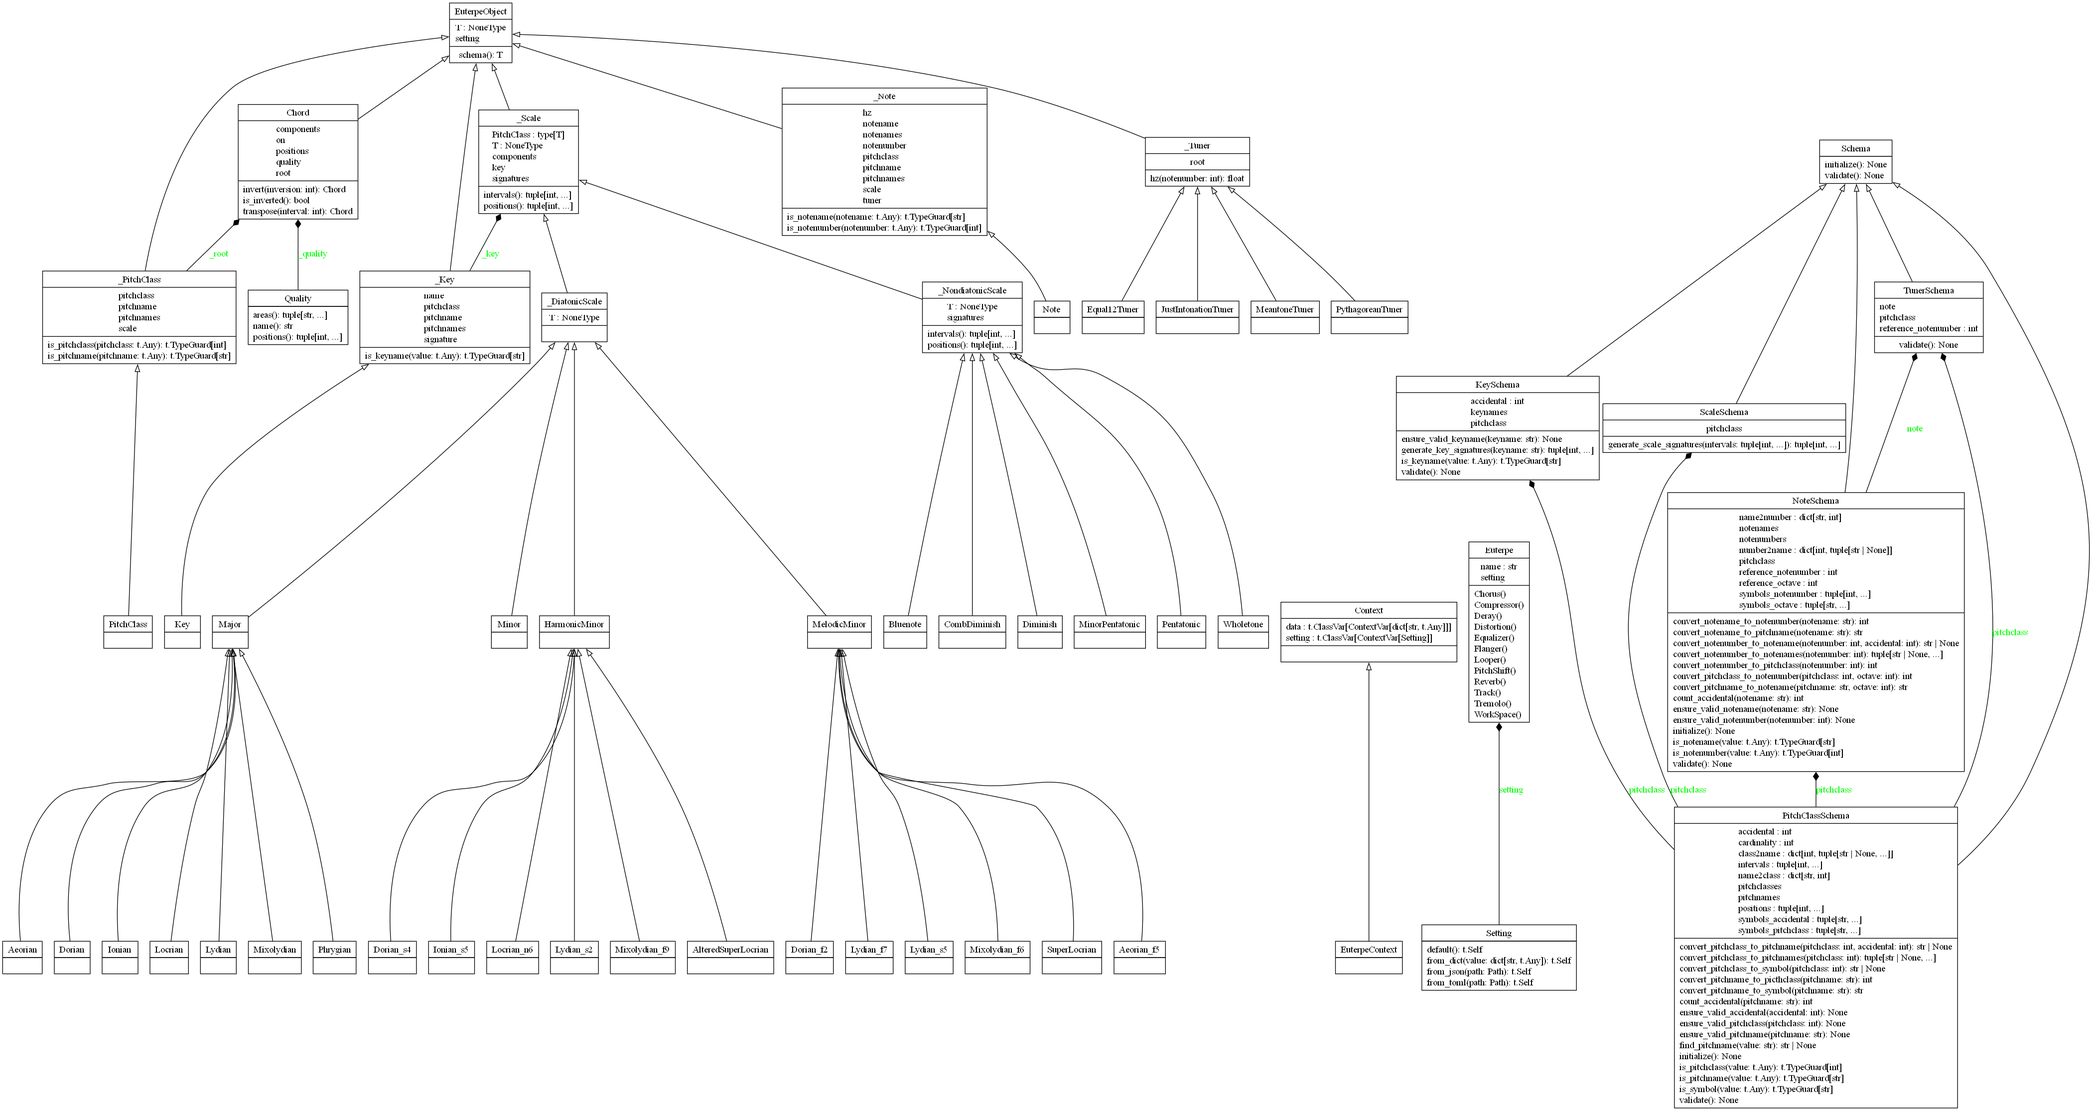
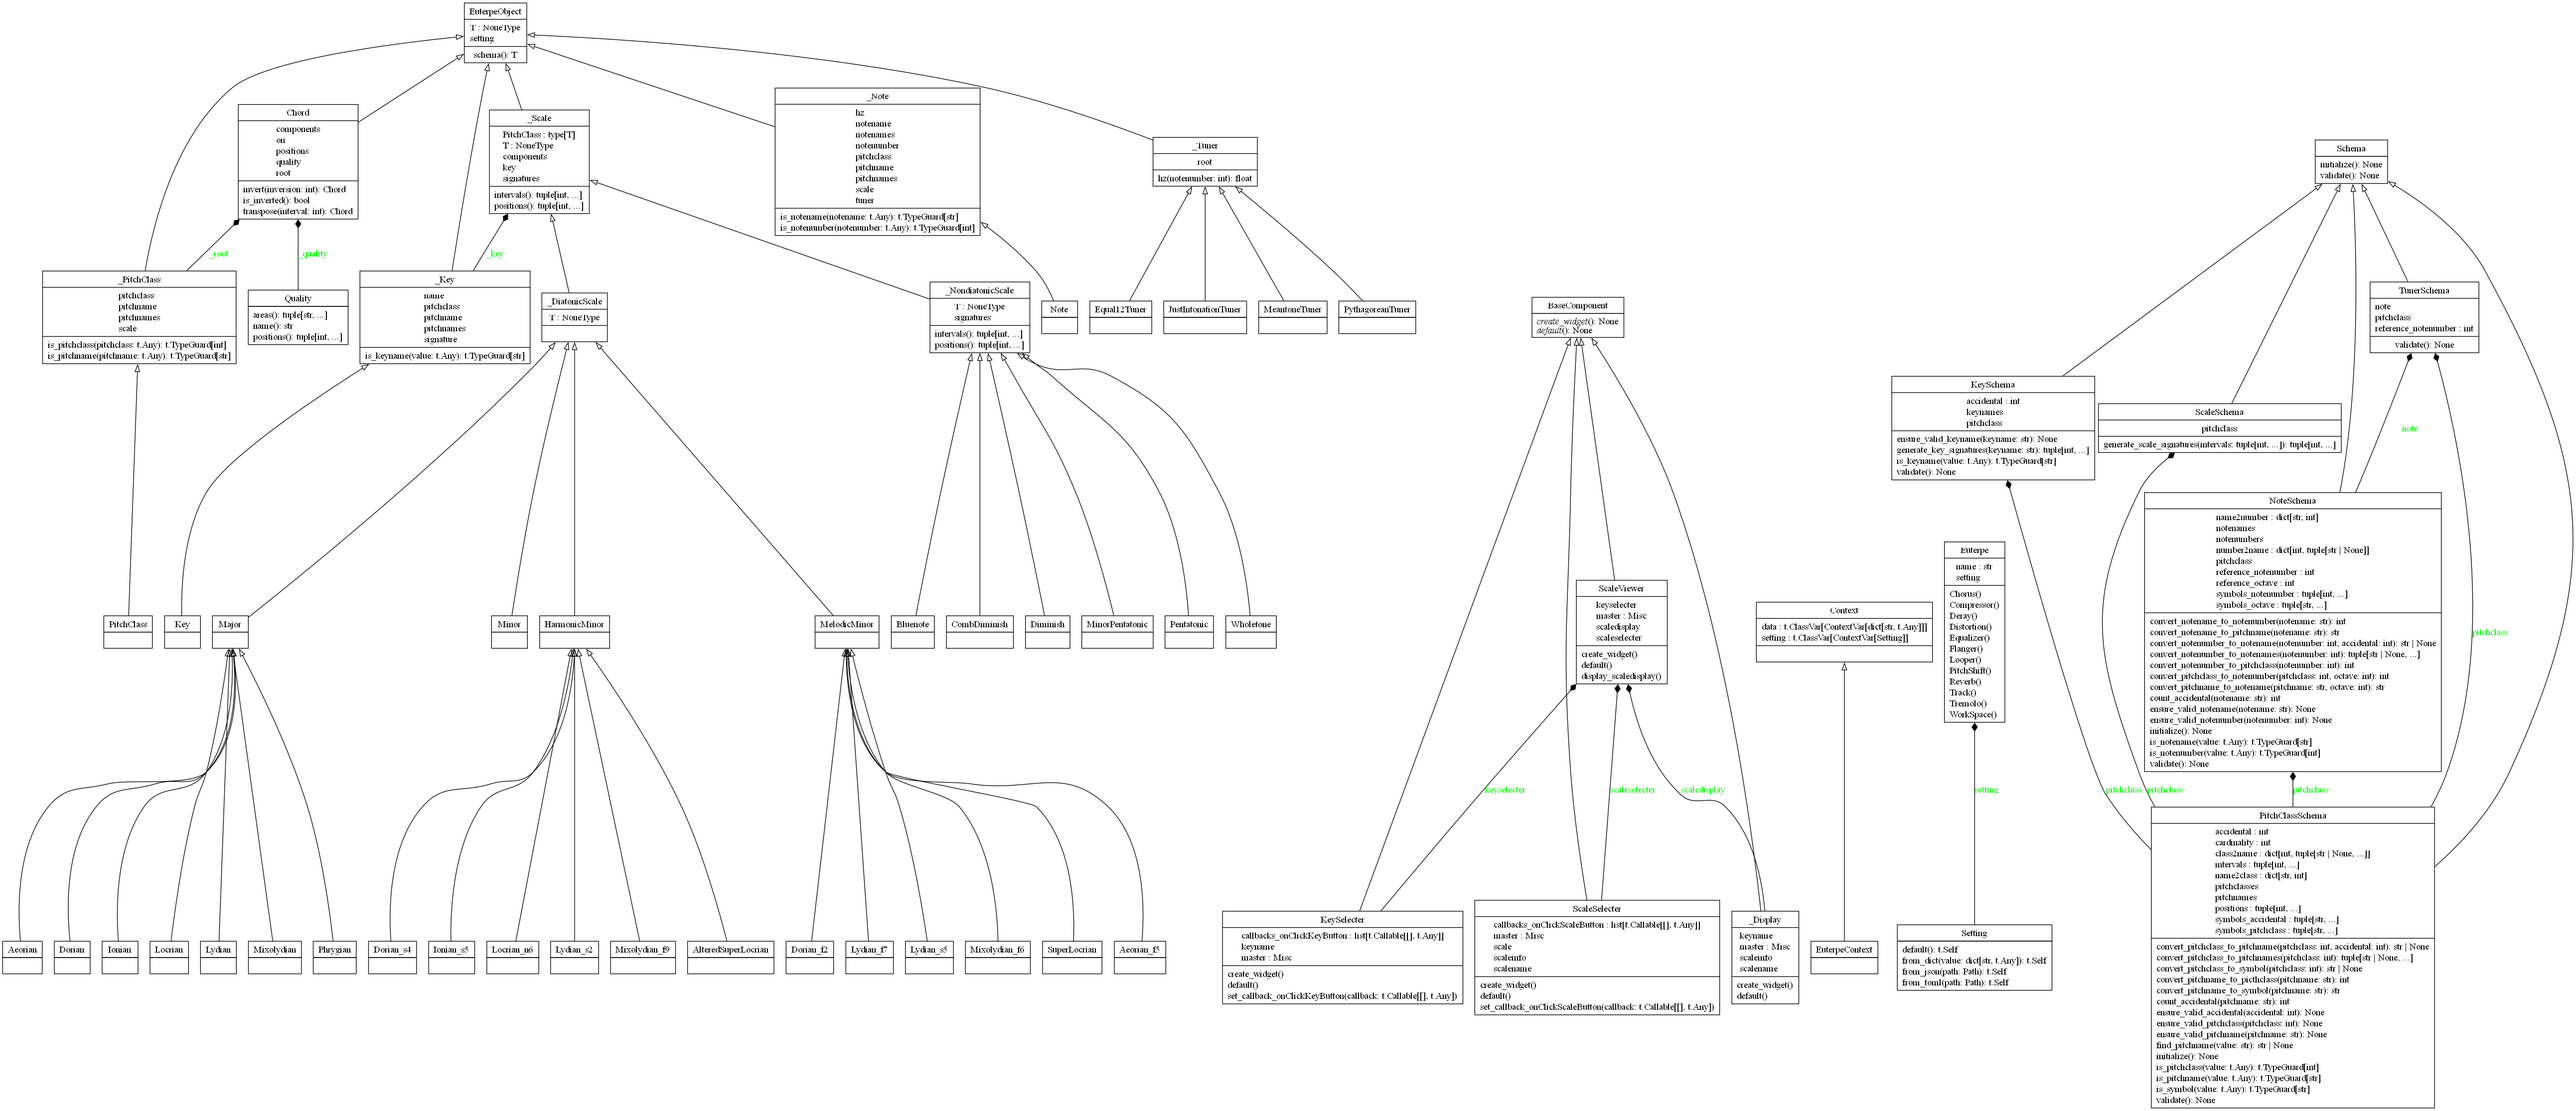
format

diff --git a/src/euterpe/ui/components/keyboard.py b/src/euterpe/ui/components/keyboard.py
@@ -1,11 +1,8 @@
-import typing as t
 import tkinter as tk
 import tkinter.ttk as ttk
+import typing as t
 
-from ..const import (
-    KEYBOARD_WHITE_CLASSES,
-    KEYBOARD_BLACK_CLASSES,
-)
+from ..const import KEYBOARD_BLACK_CLASSES, KEYBOARD_WHITE_CLASSES
 
 
 class KeyElement(tk.Frame):
@@ -20,20 +17,22 @@ class KeyElement(tk.Frame):
         self.master = master
         self.notenumber = notenumber
         self.create_widget(width, height)
-    
+
     def create_widget(self, width: int, height: int):
         if self.is_white():
             self.key = tk.Button(self)
             self.key.config(bg="#FFFFFF")
             self.config(width=width, height=height)
             self.key.place(x=0, y=0, anchor=tk.NW, width=width, height=height)
-        
+
         elif self.is_black():
             self.key = tk.Button(self)
             self.key.config(bg="#000000")
-            self.config(width=width*(2/3), height=height*(2/3))
-            self.key.place(x=0, y=0, anchor=tk.NW, width=width*(2/3), height=height*(2/3))
-        
+            self.config(width=width * (2 / 3), height=height * (2 / 3))
+            self.key.place(
+                x=0, y=0, anchor=tk.NW, width=width * (2 / 3), height=height * (2 / 3)
+            )
+
         def callback_btn_bgcolor(*args):
             if self.is_active.get():
                 self.key.config(bg="#FF6347")
@@ -43,15 +42,15 @@ class KeyElement(tk.Frame):
                 elif self.is_black():
                     self.key.config(bg="#000000")
 
-        self.is_active = tk.BooleanVar(value=True)        
+        self.is_active = tk.BooleanVar(value=True)
         self.is_active.trace_add("write", callback_btn_bgcolor)
-    
+
     def default(self):
         return
 
     def is_white(self) -> bool:
         return (self.notenumber % 12) in KEYBOARD_WHITE_CLASSES
-    
+
     def is_black(self) -> bool:
         return (self.notenumber % 12) in KEYBOARD_BLACK_CLASSES
 
@@ -81,13 +80,18 @@ class KeyBoard(tk.Frame):
         # --- tab1 ---
         self.canvas = tk.Canvas(self.tab1, width=1000, height=72)
         self.keyboard = tk.Frame(self.canvas, width=1750, height=72, bg="#F0F0F0")
-        self.scrollbar = tk.Scrollbar(self.tab1, orient=tk.HORIZONTAL, command=self.canvas.xview)
-        
+        self.scrollbar = tk.Scrollbar(
+            self.tab1, orient=tk.HORIZONTAL, command=self.canvas.xview
+        )
+
         self.canvas.create_window((0, 0), window=self.keyboard, anchor=tk.NW)
         self.canvas.configure(xscrollcommand=self.scrollbar.set)
 
         self.canvas.config(scrollregion=self.canvas.bbox("all"))
-        self.keyboard.bind("<Configure>", lambda _: self.canvas.configure(scrollregion=self.canvas.bbox("all")))
+        self.keyboard.bind(
+            "<Configure>",
+            lambda _: self.canvas.configure(scrollregion=self.canvas.bbox("all")),
+        )
         self.keyboard.update_idletasks()
 
         self.keylist = self._create_keylist()
@@ -102,7 +106,6 @@ class KeyBoard(tk.Frame):
         self.notebook.add(self.tab2, text="⚙")
         self.notebook.pack(fill=tk.BOTH, expand=True)
 
-    
     def _create_keylist(self) -> list[KeyElement]:
         x = 0
         keylist: list[KeyElement] = []
@@ -113,12 +116,12 @@ class KeyBoard(tk.Frame):
             if key.is_white():
                 key.place(x=x, y=0, anchor=tk.NW)
                 x += 24
-            
+
             elif key.is_black():
                 key.place(x=x, y=0, anchor=tk.N)
-            
+
             keylist.append(key)
-        
+
         for key in keylist[:-1]:
             if key.is_black():
                 key.lift(aboveThis=keylist[-1])
@@ -127,6 +130,3 @@ class KeyBoard(tk.Frame):
 
     def default(self):
         return
-
-
-

diff --git a/src/euterpe/ui/components/scaleviewer.py b/src/euterpe/ui/components/scaleviewer.py
@@ -20,7 +20,7 @@ class _Display(BaseComponent):
         super().__init__(master)
         self.master = master
         self.create_widget()
-    
+
     def create_widget(self):
         self._scale = tk.StringVar()
         self._keyname = tk.StringVar()
@@ -34,32 +34,36 @@ class _Display(BaseComponent):
         self._scalename.trace_add("write", combine)
 
         self._wrapper = ttk.Frame(self, padding=(24, 8), borderwidth=2, relief=tk.SOLID)
-        self._scaledisplay = ttk.Label(self._wrapper, textvariable=self._scale, font=("Times", 18))
-        self._scaleinfodisplay = ttk.Label(self._wrapper, textvariable=self._scaleinfo, font=("Times", 10))
+        self._scaledisplay = ttk.Label(
+            self._wrapper, textvariable=self._scale, font=("Times", 18)
+        )
+        self._scaleinfodisplay = ttk.Label(
+            self._wrapper, textvariable=self._scaleinfo, font=("Times", 10)
+        )
 
         self._wrapper.pack()
         self._scaledisplay.pack(side=tk.TOP, anchor=tk.NW)
         self._scaleinfodisplay.pack(side=tk.TOP, anchor=tk.NW)
-    
+
     def default(self):
         return
-    
+
     @property
     def keyname(self):
         return self._keyname.get()
-    
+
     @property
     def scalename(self):
         return self._scalename.get()
-    
+
     @property
     def scaleinfo(self):
         return self._scaleinfo.get()
-    
+
     @keyname.setter
     def keyname(self, value: str):
         return self._keyname.set(value)
-    
+
     @scalename.setter
     def scalename(self, value: str):
         self._scalename.set(value)
@@ -86,21 +90,17 @@ class ScaleViewer(BaseComponent):
         self.keyselecter = KeySelecter(self)
         self.scaleselecter = ScaleSelecter(self)
 
-        self.keyselecter.set_callback_onClickKeyButton(
-            self.display_scaledisplay
-        )
-        self.scaleselecter.set_callback_onClickScaleButton(
-            self.display_scaledisplay
-        )
+        self.keyselecter.set_callback_onClickKeyButton(self.display_scaledisplay)
+        self.scaleselecter.set_callback_onClickScaleButton(self.display_scaledisplay)
 
         self.scaledisplay.pack(side=tk.TOP, anchor=tk.W, expand=True)
         self.keyselecter.pack(side=tk.LEFT, anchor=tk.N)
         self.scaleselecter.pack(side=tk.LEFT, anchor=tk.N)
-    
+
     def default(self):
         self.keyselecter.default()
         self.scaleselecter.default()
-    
+
     def display_scaledisplay(self):
         self.scaledisplay.keyname = self.keyselecter.keyname
         self.scaledisplay.scalename = self.scaleselecter.scalename

diff --git a/src/euterpe/ui/components/selecter/keyselecter.py b/src/euterpe/ui/components/selecter/keyselecter.py
@@ -1,9 +1,9 @@
-import typing as t
 import tkinter as tk
 import tkinter.ttk as ttk
+import typing as t
 
-from ..base import BaseComponent
 from ...const import KEY_DEFAULTS
+from ..base import BaseComponent
 
 
 class KeySelecter(BaseComponent):
@@ -22,23 +22,28 @@ class KeySelecter(BaseComponent):
 
     def create_widget(self):
         self._selected_keyname = tk.StringVar()
-        self._keyselecter_wrap = ttk.Frame(self, padding=(24, 8), borderwidth=2, relief=tk.SOLID)
+        self._keyselecter_wrap = ttk.Frame(
+            self, padding=(24, 8), borderwidth=2, relief=tk.SOLID
+        )
         self._keyselecter_title = ttk.Label(self, text="Key")
         self._keyselecter_wrap.pack()
         self._keyselecter_title.place(relx=0.05, rely=0, anchor=tk.W)
 
         self._keygroups = [
-            ttk.Frame(self._keyselecter_wrap, padding=(6, 0)) for _ in range(len(KEY_DEFAULTS))
+            ttk.Frame(self._keyselecter_wrap, padding=(6, 0))
+            for _ in range(len(KEY_DEFAULTS))
         ]
         self._keybuttons = [
-            [ttk.Radiobutton(
-                keygroup,
-                text=key,
-                value=key,
-                variable=self._selected_keyname,
-                command=self._onClickKeyButton,
-            )
-            for key in keys]
+            [
+                ttk.Radiobutton(
+                    keygroup,
+                    text=key,
+                    value=key,
+                    variable=self._selected_keyname,
+                    command=self._onClickKeyButton,
+                )
+                for key in keys
+            ]
             for keygroup, keys in zip(self._keygroups, KEY_DEFAULTS)
         ]
 
@@ -48,7 +53,7 @@ class KeySelecter(BaseComponent):
         for keybuttons in self._keybuttons:
             for btn in keybuttons:
                 btn.pack(side=tk.TOP, anchor=tk.NW)
-    
+
     def default(self):
         self._selected_keyname.set("C")
         self._onClickKeyButton()
@@ -60,8 +65,9 @@ class KeySelecter(BaseComponent):
     @property
     def keyname(self):
         return self._selected_keyname.get()
-    
+
     callbacks_onClickKeyButton: list[t.Callable[[], t.Any]]
+
     def set_callback_onClickKeyButton(self, callback: t.Callable[[], t.Any]):
         if not hasattr(self, "callbacks_onClickKeyButton"):
             self.callbacks_onClickKeyButton = []

diff --git a/src/euterpe/ui/components/selecter/scaleselecter.py b/src/euterpe/ui/components/selecter/scaleselecter.py
@@ -1,12 +1,11 @@
-import typing as t
 import tkinter as tk
 import tkinter.ttk as ttk
+import typing as t
 
 from euterpe import _Scale
 from euterpe.TET12 import scale
 
 from ..base import BaseComponent
-
 
 SCALE_DEFAULTS: tuple[dict[str, type[_Scale]], dict[str, type[_Scale]]] = (
     {
@@ -96,36 +95,37 @@ class ScaleSelecter(BaseComponent):
         for scalebuttons in self._scalebuttons:
             for btn in scalebuttons:
                 btn.pack(side=tk.TOP, anchor=tk.NW)
-    
+
     def default(self):
         self._selected_scalename.set(scale.Major.__name__)
         self._onClickScaleButton()
-    
+
     def _onClickScaleButton(self):
         for scales in SCALE_DEFAULTS:
             name = self._selected_scalename.get()
             if name in scales:
                 self._selected_scaleinfo.set(scales[name].__doc__ or "")
-            
+
         for callback in self.callbacks_onClickScaleButton:
             callback()
-    
+
     @property
     def scale(self) -> type[_Scale] | None:
         for scales in SCALE_DEFAULTS:
             if self.scalename in scales:
                 return scales[self.scalename]
         return None
-    
+
     @property
     def scalename(self) -> str:
         return self._selected_scalename.get()
-    
+
     @property
     def scaleinfo(self) -> str:
         return self._selected_scaleinfo.get()
 
     callbacks_onClickScaleButton: list[t.Callable[[], t.Any]]
+
     def set_callback_onClickScaleButton(self, callback: t.Callable[[], t.Any]):
         if not hasattr(self, "callbacks_onClickScaleButton"):
             self.callbacks_onClickScaleButton = []

diff --git a/src/euterpe/__main__.py b/src/euterpe/__main__.py
@@ -3,13 +3,16 @@ import argparse
 
 def main():
     parser = argparse.ArgumentParser(description="Euterpe Application")
-    parser.add_argument("--gui", action="store_true", help="run the euterpe application in GUI mode")
+    parser.add_argument(
+        "--gui", action="store_true", help="run the euterpe application in GUI mode"
+    )
     args = parser.parse_args()
 
     if args.gui:
         from euterpe.ui import run
+
         run()
-        
+
 
 if __name__ == "__main__":
     main()

diff --git a/src/euterpe/ui/components/base.py b/src/euterpe/ui/components/base.py
@@ -1,13 +1,13 @@
-import typing as t
 import tkinter as tk
+import typing as t
 from abc import ABCMeta, abstractmethod
 
 
 class BaseComponent(tk.Frame, metaclass=ABCMeta):
-    
+
     def __init__(self, master: tk.Misc, **kwargs):
         super().__init__(master, padx=12, pady=4, **kwargs)
-    
+
     @abstractmethod
     def create_widget(self, *args, **kwargs) -> None: ...
 

diff --git a/src/euterpe/ui/const.py b/src/euterpe/ui/const.py
@@ -1,4 +1,3 @@
-
 KEY_DEFAULTS = (
     ("Cb", "Db", "Eb", "Fb", "Gb", "Ab", "Bb"),
     ("C", "D", "E", "F", "G", "A", "B"),

diff --git a/src/euterpe/ui/main.py b/src/euterpe/ui/main.py
@@ -1,4 +1,3 @@
-
 import ctypes
 import tkinter as tk
 import tkinter.ttk as ttk
